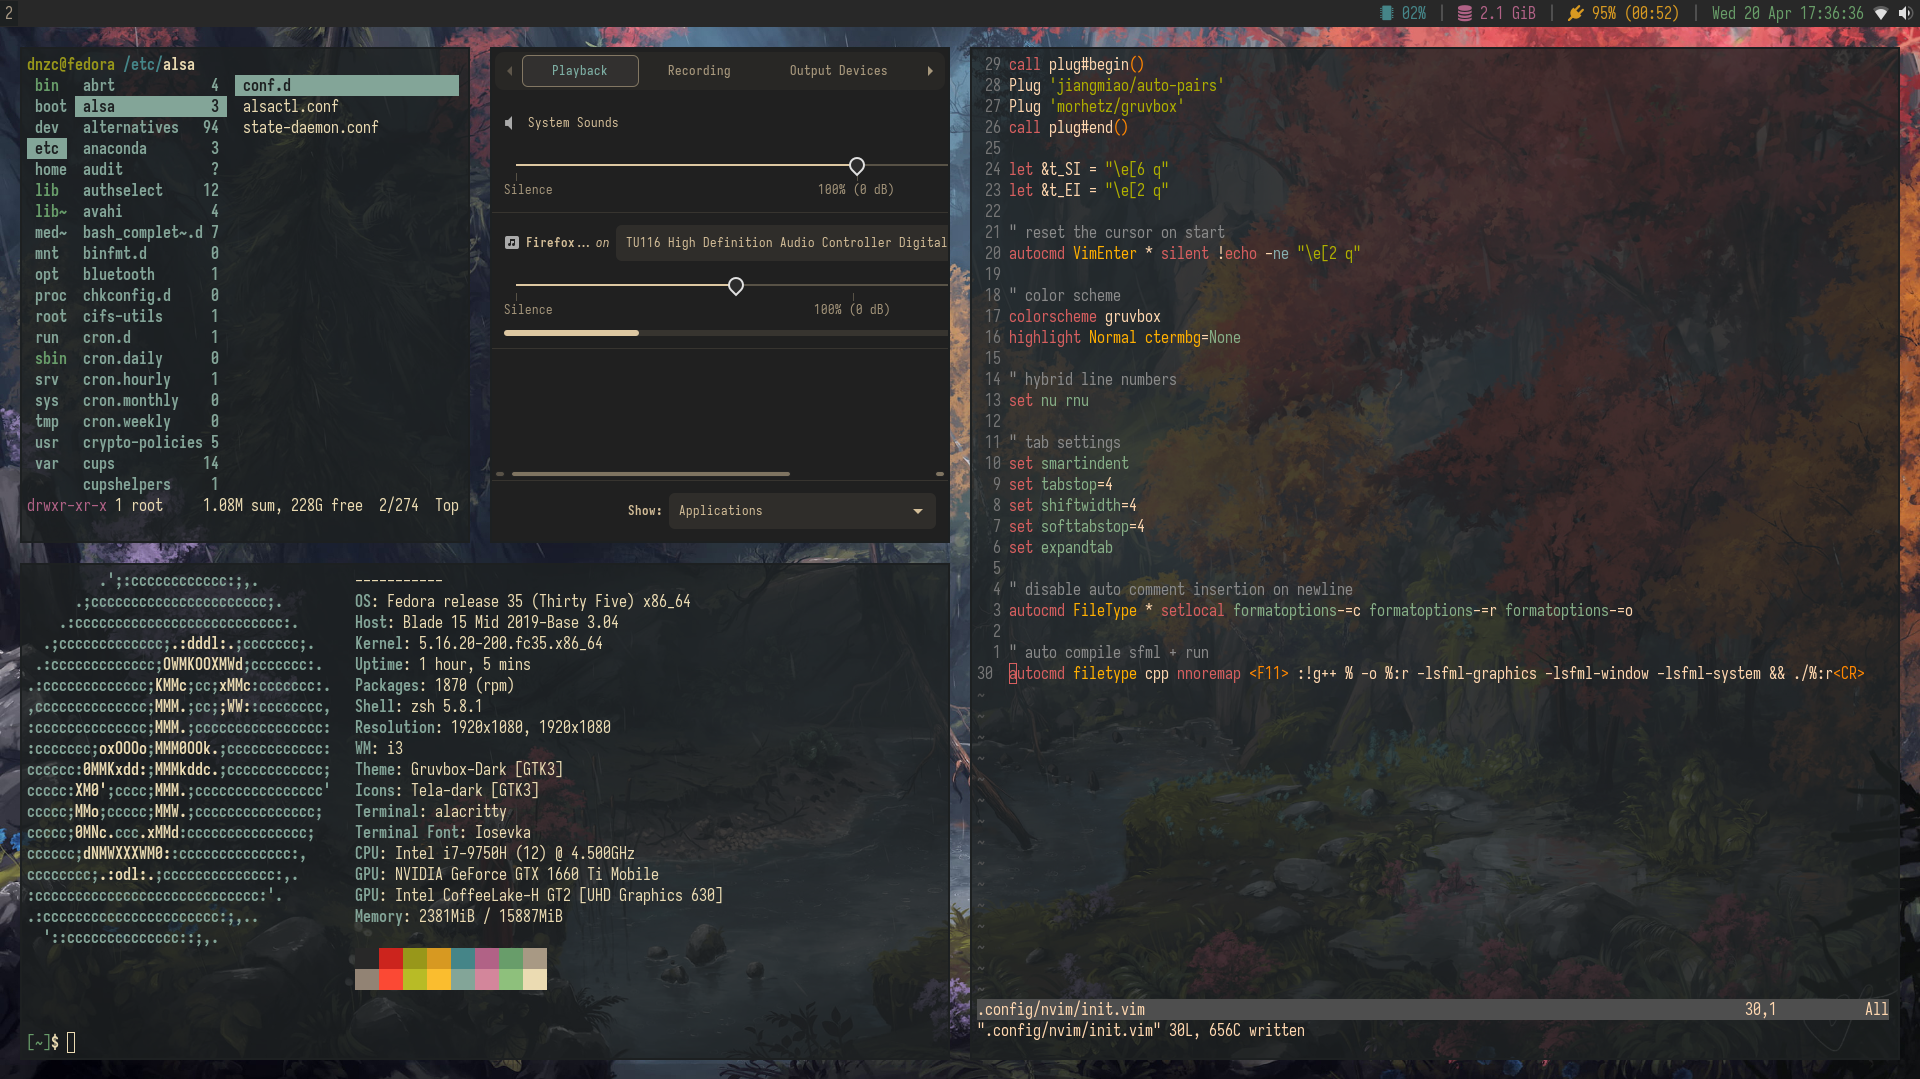
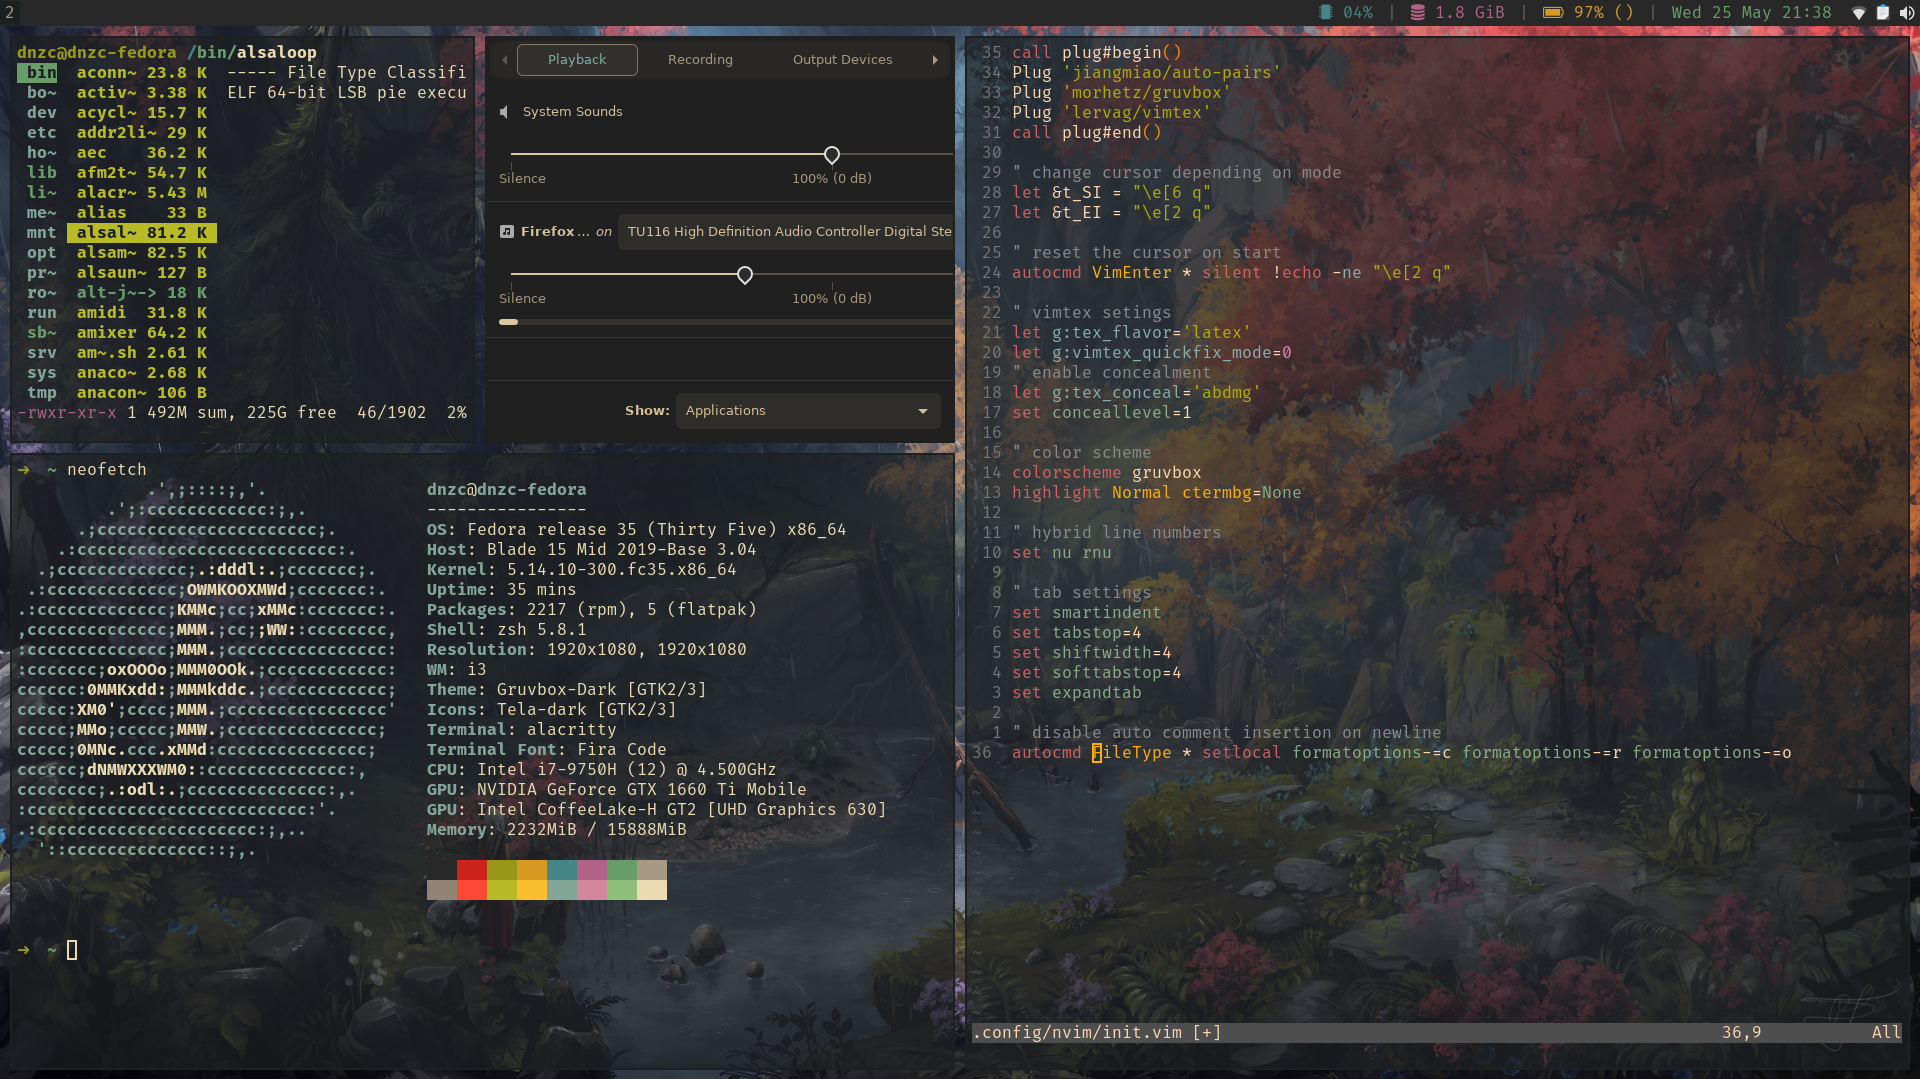
new

diff --git a/README.md b/README.md
@@ -1,6 +1,6 @@
 # dotfiles
 
-My linux config files, for aesthetic stuff. Gruvbox theme.
+Some of my linux config files, for aesthetic stuff. Gruvbox theme.
 
 ![screenshot.png](screenshot.png)
 
@@ -10,7 +10,7 @@ WM: i3-gaps
 
 Bar: i3status
 
-Font: Iosevka + Font-Awesome
+Font: Fira Code + Font-Awesome
 
 Terminal: Alacritty
 
